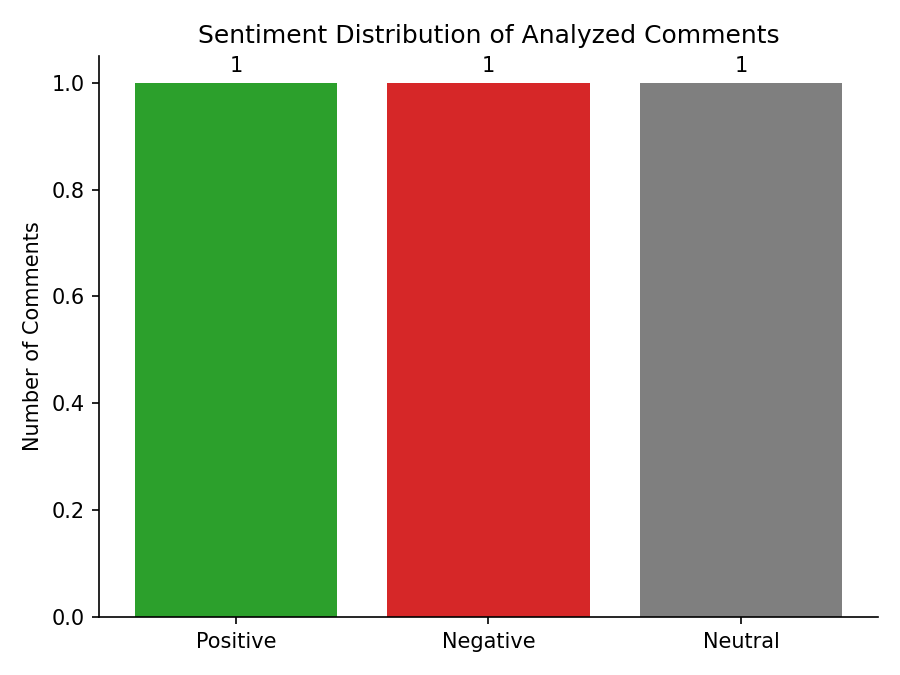
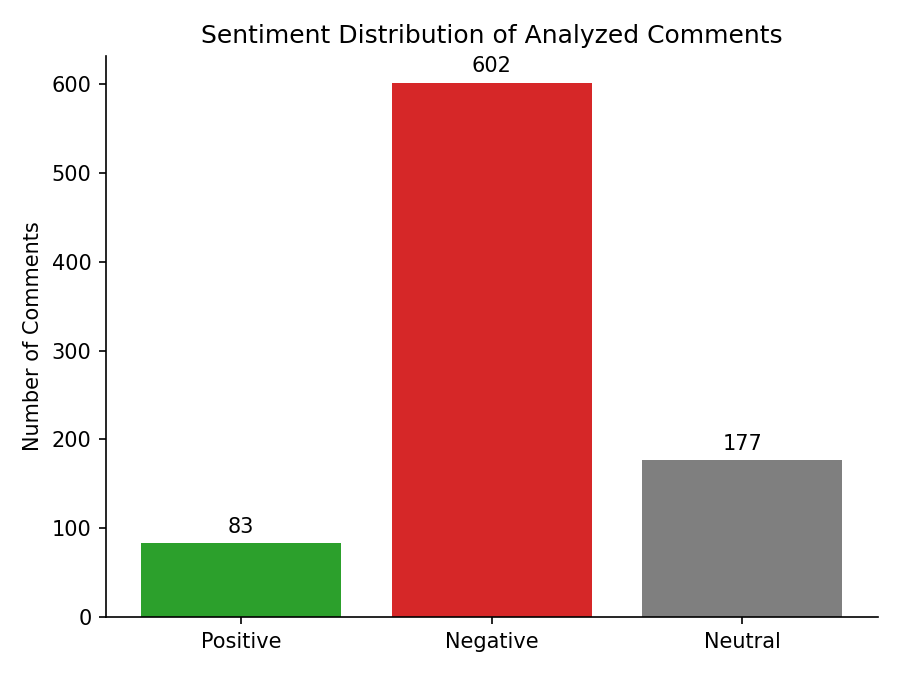
Fix deprecated Gemini model name; add real API key
Google retired gemini-2.5-flash for new users (404 on first live test with
a real key just obtained). Switched the default GEMINI_MODEL to
gemini-3.8-flash, confirmed working end to end: single-turn, multi-turn
conversation history, the topic auto-suggest path, and the UI's Clear
Conversation button, all live-tested in the browser.

Also regenerates the committed sentiment_bar/donut chart PNGs from the real
862-comment dataset (they'd been overwritten by an ad hoc test batch during
the review pass).

diff --git a/config.py b/config.py
@@ -173,7 +173,7 @@ MANUAL_REVIEW_SAMPLE_PATH = REPORTS_DIR / "manual_review_sample.csv"
 # Chatbot / Regulatory Assistant (Stage 4 - frontend/, additional feature)
 # ---------------------------------------------------------------------------
 GEMINI_API_KEY = os.getenv("GEMINI_API_KEY", "")
-GEMINI_MODEL = os.getenv("GEMINI_MODEL", "gemini-2.5-flash")
+GEMINI_MODEL = os.getenv("GEMINI_MODEL", "gemini-3.8-flash")
 MAX_CHAT_HISTORY_MESSAGES = 6  # trimmed to keep the context window bounded
 
 for _d in [DATA_DIR, RAW_DIR, LABELED_DIR, PROCESSED_DIR, SAMPLE_DIR, REGULATORY_CONTEXT_DIR,

diff --git a/README.md b/README.md
@@ -102,9 +102,13 @@ See `labeling_cleaning/README.md` for the exact labeling command.
 ## Gemini setup (Stage 4's additional feature)
 
 1. Get a free API key at https://aistudio.google.com/apikey (no payment method required for the
-   free tier; `gemini-2.5-flash`, the default model here, is free-of-charge with generous limits).
+   free tier; `gemini-3.8-flash`, the default model here, is free-of-charge with generous limits).
 2. Copy `.env.example` to `.env` and set `GEMINI_API_KEY=...` (never commit `.env`).
-3. Optionally set `GEMINI_MODEL` (defaults to `gemini-2.5-flash`).
+3. Optionally set `GEMINI_MODEL` (defaults to `gemini-3.8-flash`). Google periodically retires
+   older model names (e.g. `gemini-2.5-flash` was retired for new users after this project was
+   first built) - if the chatbot tab ever starts returning errors, check
+   https://ai.google.dev/gemini-api/docs/models for the current free-tier flash model name and
+   update `GEMINI_MODEL` in `.env` (no code changes needed).
 
 ## Commands (full pipeline, if re-running from scratch)
 
@@ -169,7 +173,7 @@ deploy needs no GPU, no Ollama, and no training step - it just loads what's alre
 4. Under the app's **Settings -> Secrets**, add (TOML format):
    ```toml
    GEMINI_API_KEY = "your_real_key_here"
-   GEMINI_MODEL = "gemini-2.5-flash"
+   GEMINI_MODEL = "gemini-3.8-flash"
    ```
    Streamlit Cloud exposes Secrets as environment variables to the running app, so
    `config.py`'s existing `os.getenv("GEMINI_API_KEY", "")` picks it up with no code changes.
